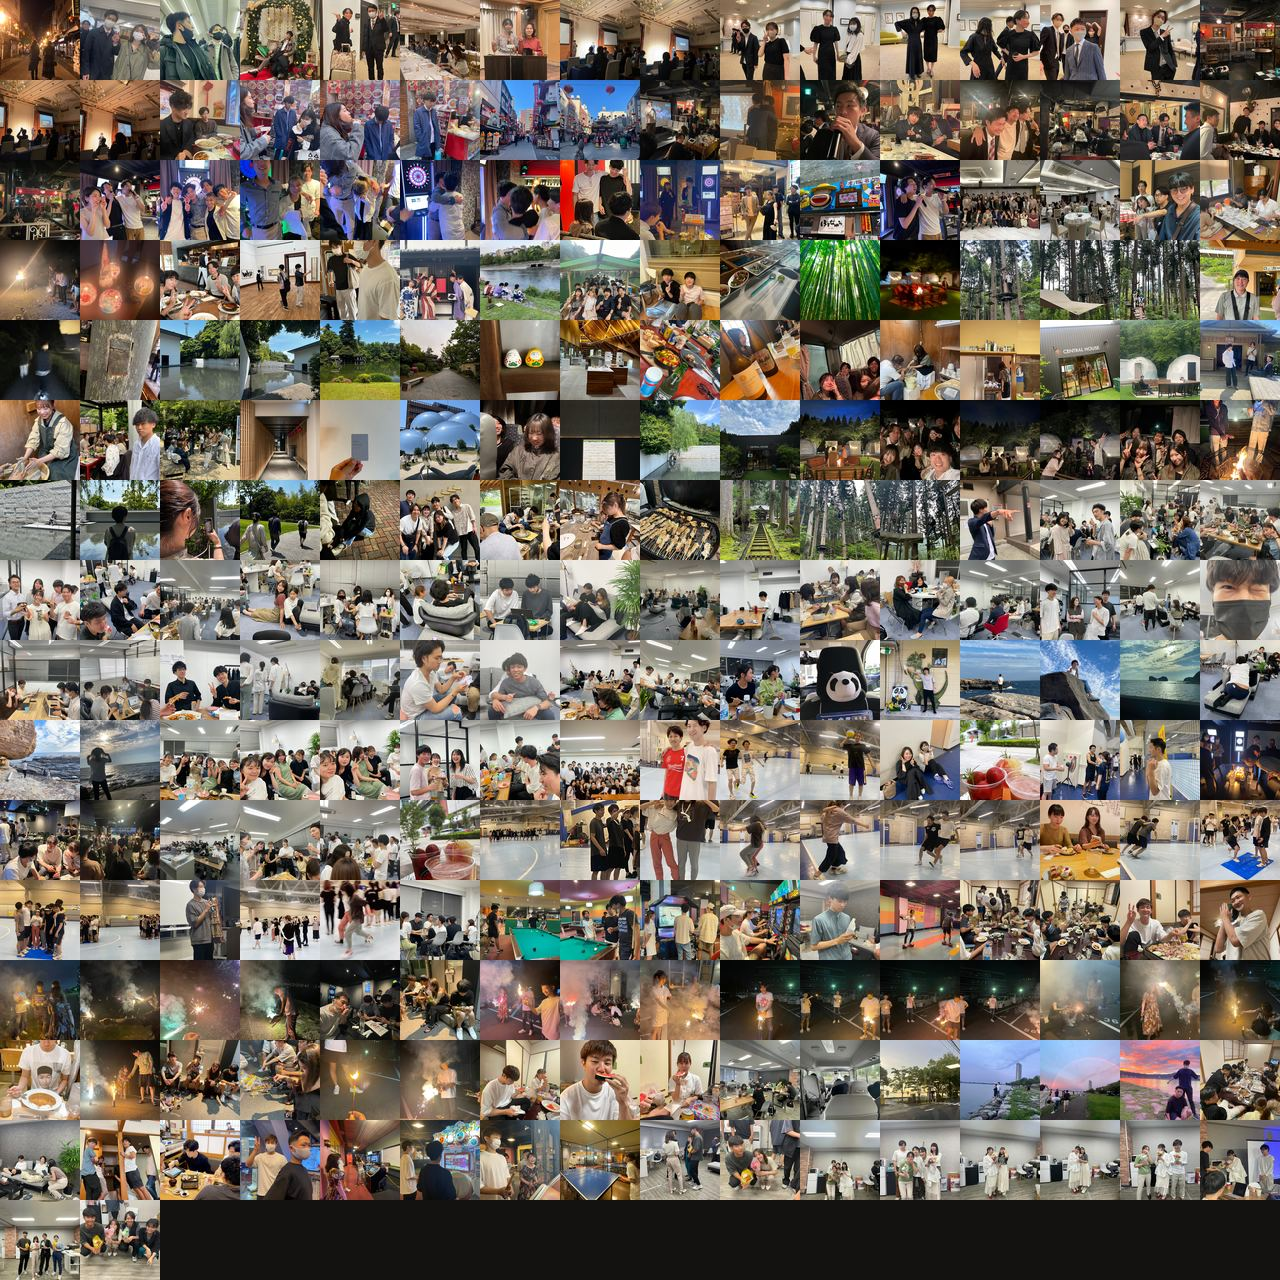
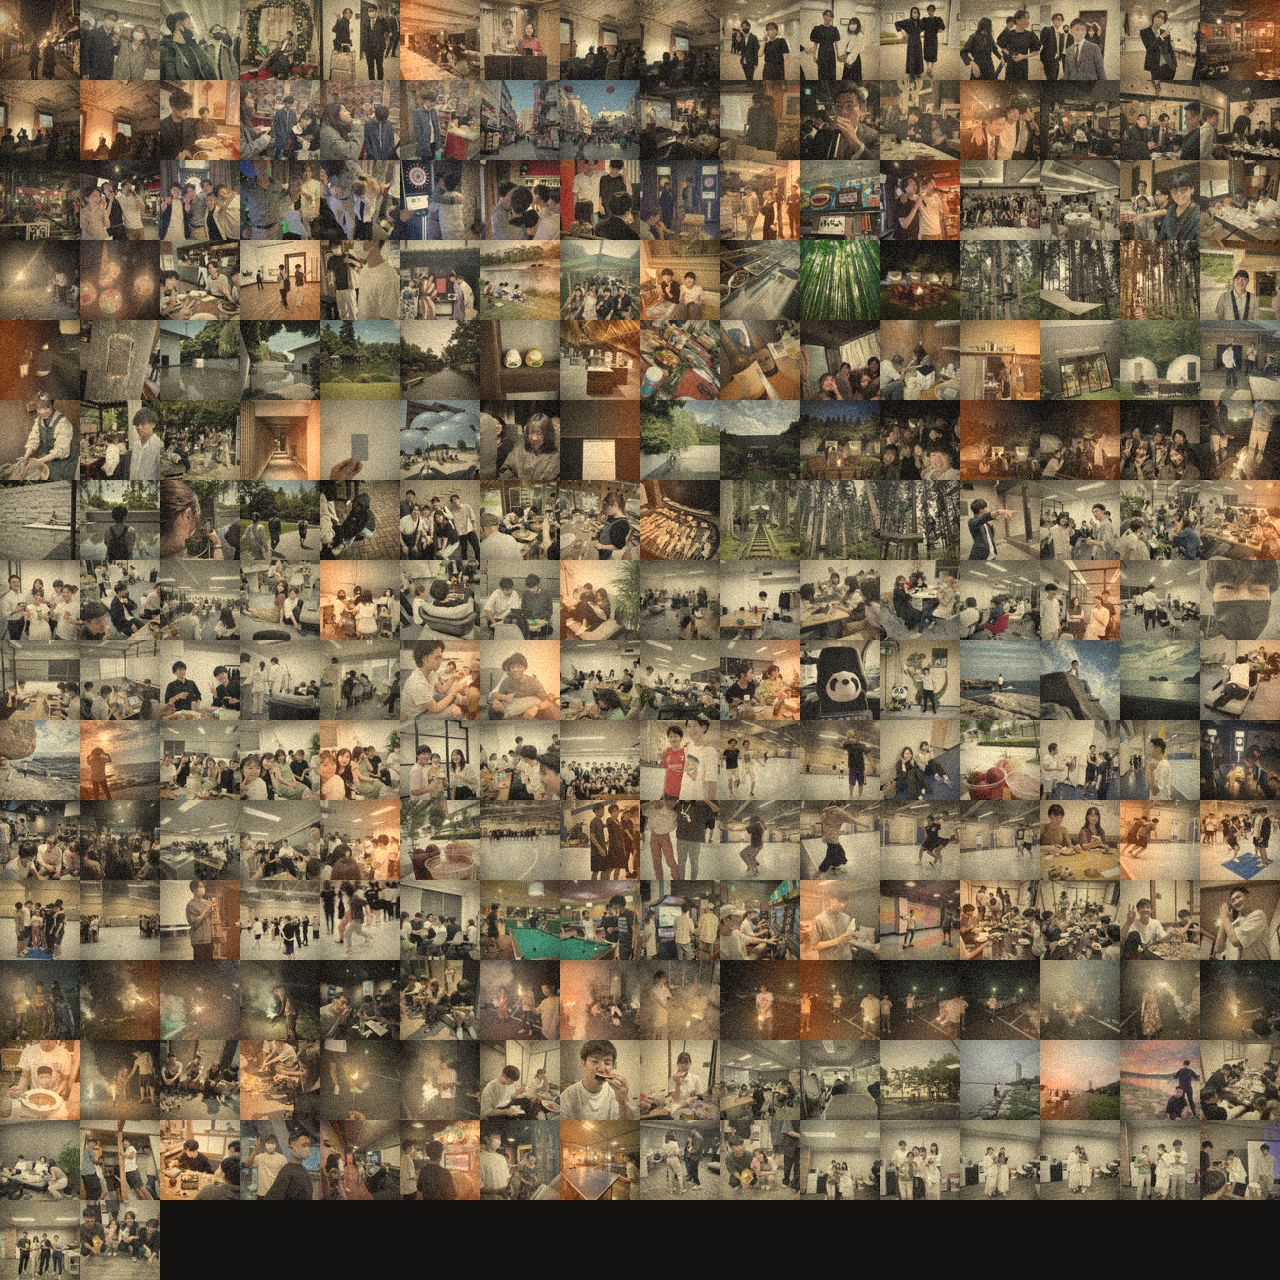
Yosegaki: retro film look for collage photos
Claude-Session: https://claude.ai/code/session_015RnGiLFZouNiLXBrkgCp4k

diff --git a/radix10-y7k2q/index.html b/radix10-y7k2q/index.html
@@ -326,7 +326,7 @@ body,.sheet.full{background-color:#f6f5f1;background-image:var(--paper)!importan
 .bar,.bar-b,body::before{background-color:#f6f5f1!important;background-image:var(--paper)!important;background-size:720px 720px!important;background-attachment:scroll!important}
 @media (prefers-color-scheme:dark){body,.sheet.full,.bar,.bar-b,body::before{background-image:none!important}}
 </style>
-<link rel="preload" href="wall.jpg" as="image"><link rel="preload" href="tiles.jpg?v=1" as="image">
+<link rel="preload" href="wall.jpg" as="image"><link rel="preload" href="tiles.jpg?v=2" as="image">
 </head>
 <body>
 <div class="gate" id="gate"><div class="typefield" id="typefield" aria-hidden="true"></div><div class="load"><h1>寄せ書き</h1><p class="note" id="gateErr">読み込んでいます…</p></div></div>
@@ -420,7 +420,7 @@ async function runMosaic(){try{await runMosaic2()}catch(e){}finally{setTimeout((
 async function runMosaic2(){
   const cv=document.getElementById('mosaic'),img=document.getElementById('wallImg');if(!cv||!img)return;
   if(matchMedia('(prefers-reduced-motion:reduce)').matches)return;
-  const atlas=await new Promise(r=>{const i=new Image();i.onload=()=>r(i);i.onerror=()=>r(null);i.src='tiles.jpg?v=1'});if(!atlas)return;
+  const atlas=await new Promise(r=>{const i=new Image();i.onload=()=>r(i);i.onerror=()=>r(null);i.src='tiles.jpg?v=2'});if(!atlas)return;
   if(!img.complete||!img.naturalWidth)await new Promise(r=>{img.onload=r;img.onerror=r});
   const box=img.getBoundingClientRect();const W=box.width,H=box.height;if(!W||!H||!img.naturalWidth)return;
   const dpr=Math.min(2,devicePixelRatio||1);cv.width=W*dpr;cv.height=H*dpr;cv.style.width=W+'px';cv.style.height=H+'px';
@@ -440,9 +440,9 @@ async function runMosaic2(){
   const SPREAD=Math.min(2600,900+pts.length*7),DUR=280;
   const ph=pts.map(([x,y],i)=>{const t=pick();return{x,y,s:S*(0.78+Math.random()*0.45),r:(Math.random()-.5)*0.62,a:(t%N)*80,b:Math.floor(t/N)*80,c:col(x,y),at:(i/pts.length)*SPREAD+Math.random()*120,done:false}});
   function put(g,p,k){const e=1-Math.pow(1-k,3),s=p.s*(1.35-0.35*e),pad=s*0.055;g.save();g.globalAlpha=Math.min(1,k*1.6);g.translate(p.x,p.y-(1-e)*S*0.12);g.rotate(p.r);
-    const [r,gg,b]=p.c;g.fillStyle=`rgb(${r*0.72+255*0.28|0},${gg*0.72+255*0.28|0},${b*0.72+255*0.28|0})`;g.shadowColor='rgba(0,0,0,.35)';g.shadowBlur=s*0.05;g.shadowOffsetY=s*0.02;
+    const [r,gg,b]=p.c;g.fillStyle=`rgb(${r*0.55+238*0.45|0},${gg*0.55+226*0.45|0},${b*0.55+198*0.45|0})`;g.shadowColor='rgba(0,0,0,.35)';g.shadowBlur=s*0.05;g.shadowOffsetY=s*0.02;
     g.fillRect(-s/2-pad,-s/2-pad,s+pad*2,s+pad*3.2);g.shadowColor='transparent';
-    g.drawImage(atlas,p.a,p.b,80,80,-s/2,-s/2,s,s);g.fillStyle=`rgba(${r},${gg},${b},0.6)`;g.fillRect(-s/2,-s/2,s,s);g.restore()}
+    g.drawImage(atlas,p.a,p.b,80,80,-s/2,-s/2,s,s);g.fillStyle=`rgba(${r},${gg},${b},0.44)`;g.fillRect(-s/2,-s/2,s,s);g.restore()}
   window._mzRunning=true;img.style.opacity='0';cv.style.opacity='1';const hero=document.querySelector('.tate-hero.on-photo');hero?.classList.add('wait');document.documentElement.classList.remove('mz-pre');
   const HOLD=800,FADE=1100,T0=performance.now();let landed=0;
   function frame(now){const t=now-T0;
